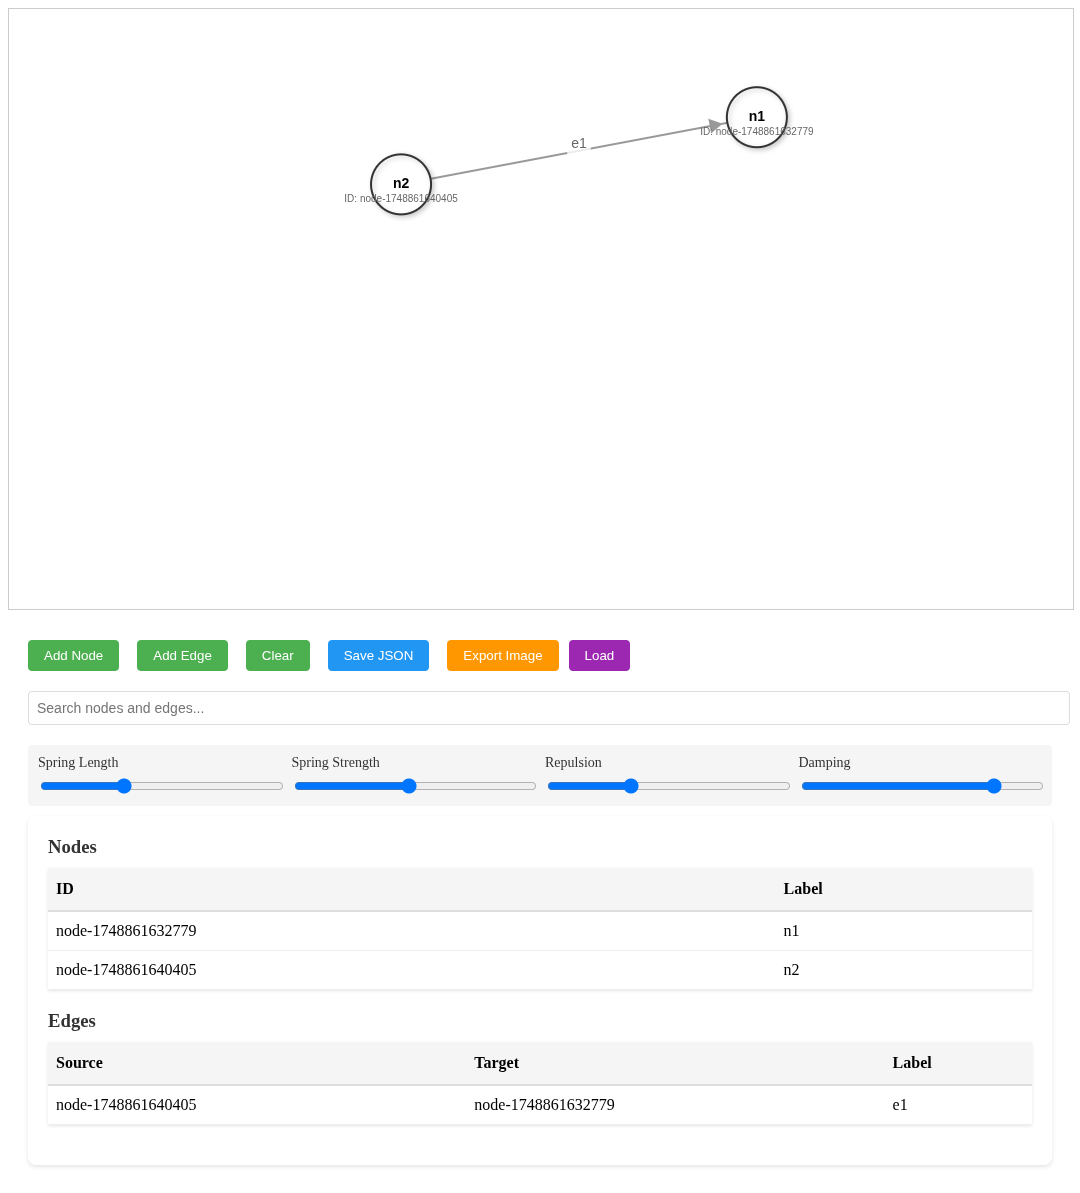
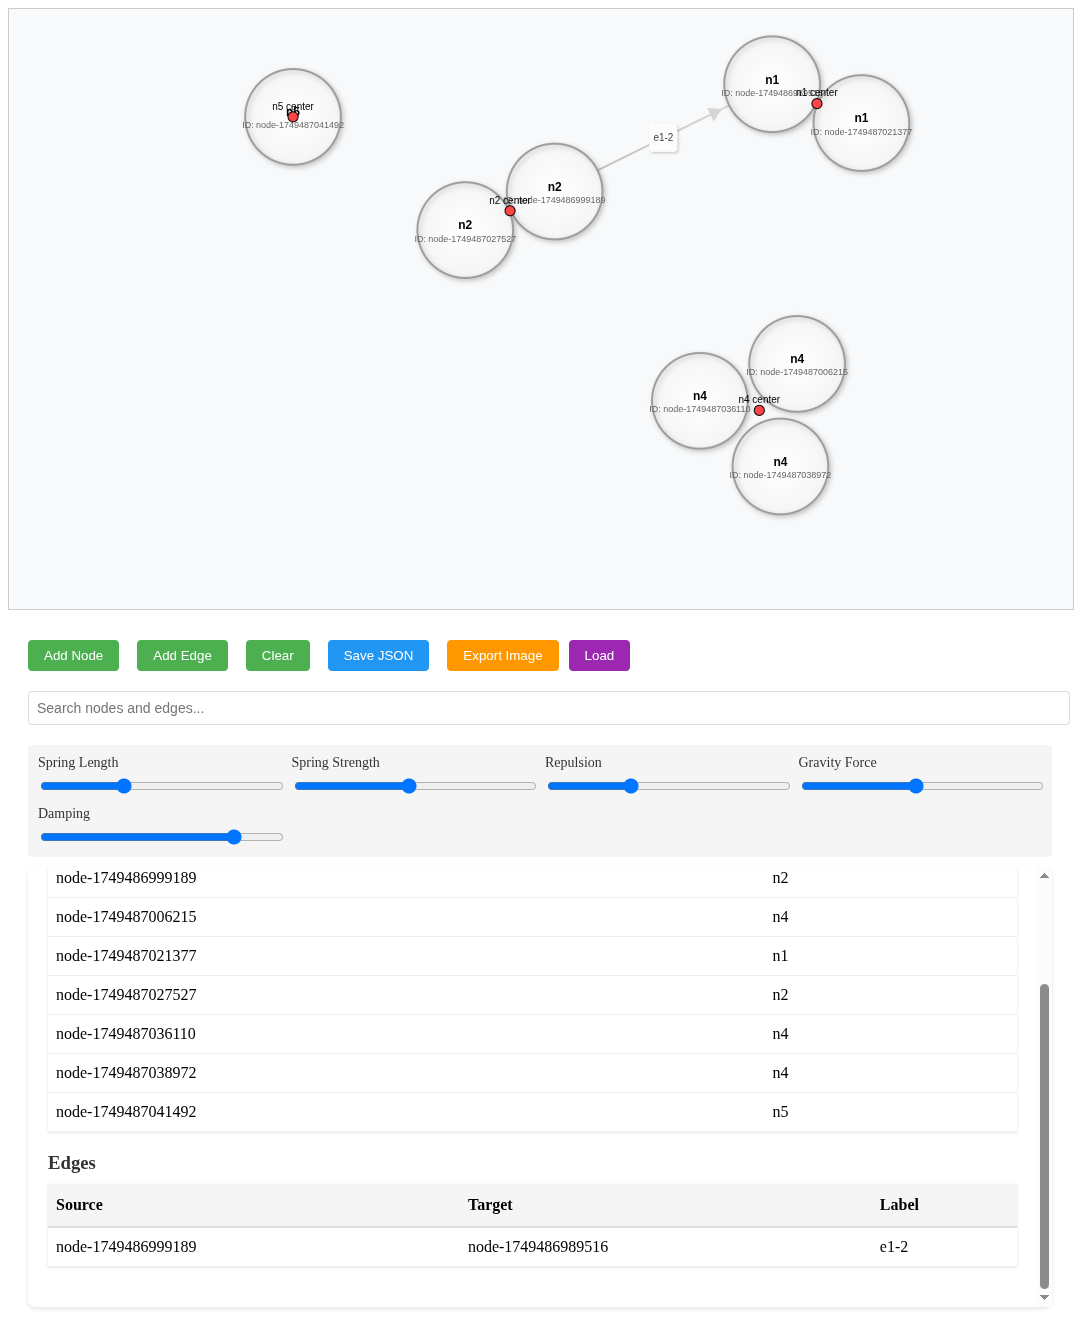
Update README with new features and improved layout controls

diff --git a/README.md b/README.md
@@ -8,13 +8,17 @@ An interactive web-based graph visualization tool that allows users to create, m
 
 - Interactive graph visualization with drag-and-drop nodes
 - Force-directed layout with adjustable parameters
+- Smart label-based node grouping with visual centers
+- Beautiful gradients and modern styling
 - Add/remove nodes and edges with custom labels
 - Save and load graph data as JSON
 - Export graph visualization as PNG
-- Search functionality for nodes and edges
-- Pan and zoom controls
+- Intelligent search functionality for nodes and edges
+- Smooth pan and zoom controls with boundaries
 - Real-time table view of nodes and edges
+- Enhanced visual feedback with shadows and gradients
 - Highlight connections on hover
+- Performance optimized with frame rate control
 
 ## Controls
 
@@ -29,7 +33,15 @@ An interactive web-based graph visualization tool that allows users to create, m
 - Spring Length: Controls the ideal distance between connected nodes
 - Spring Strength: Adjusts how strongly connected nodes attract each other
 - Repulsion: Controls how strongly nodes repel each other
+- Gravity Force: Adjusts the force pulling nodes toward the center
 - Damping: Adjusts how quickly node movement stabilizes
+
+The visualization also features:
+- Automatic node grouping based on labels
+- Visual group centers for better organization
+- Smart boundary management
+- Adaptive force scaling based on node relationships
+- Performance optimized animation frames
 
 ## Installation
 
